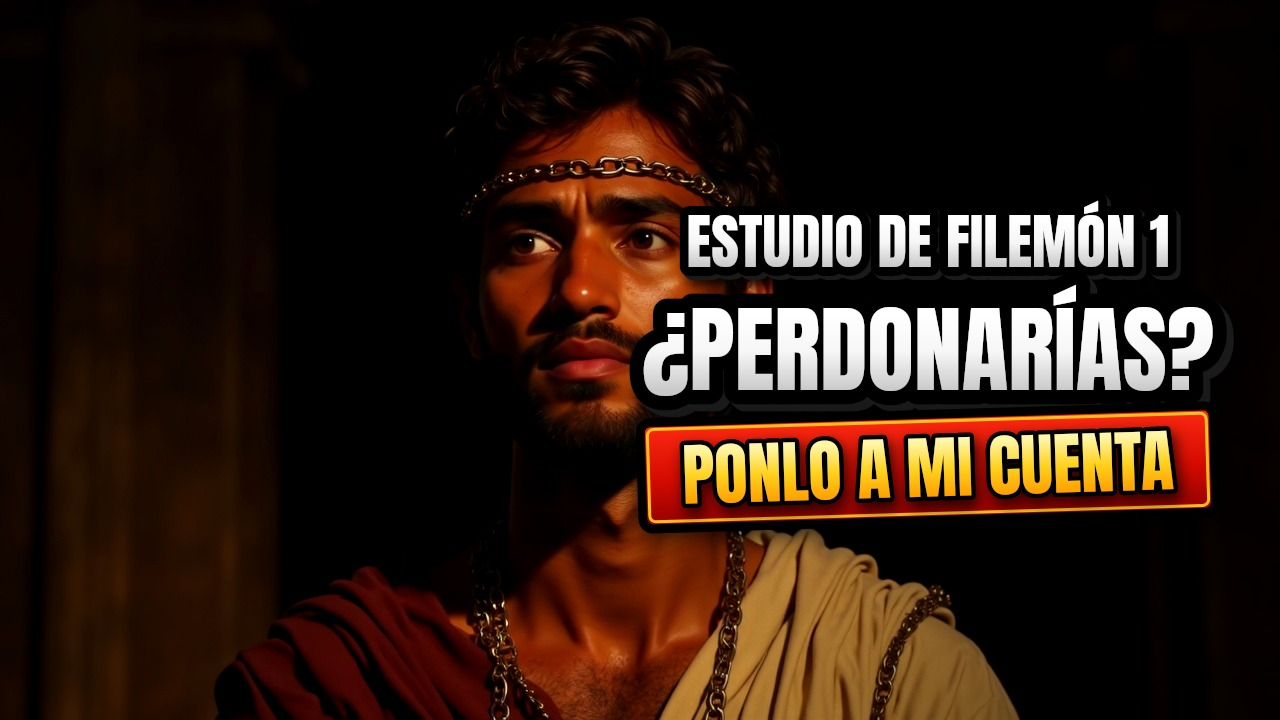
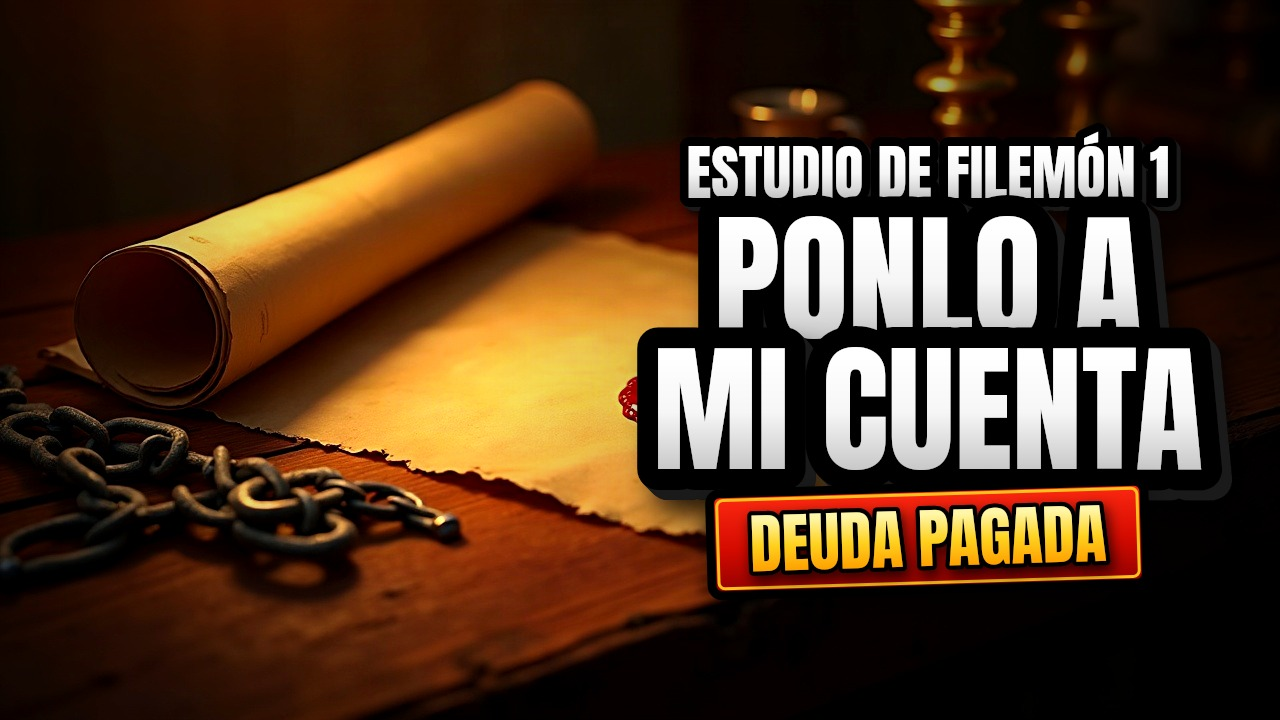
feat: mejorar estilo de miniatura y ajustar tamaños de texto

diff --git a/scripts/generar-miniatura.js b/scripts/generar-miniatura.js
@@ -319,7 +319,7 @@ bloques.push({ tipo: "texto", lineas: p.lineas, tam: p.tam, estilo: "blanco" });
 
 if (secundario) {
   // La franja (texto + márgenes) debe caber en la zona
-  let tam = 80;
+  let tam = 65;
   while (tam > 36 && medirFranja(ctx, secundario, tam).w > zonaAncho) tam -= 2;
   bloques.push({ tipo: "franja", texto: secundario, tam });
 }
